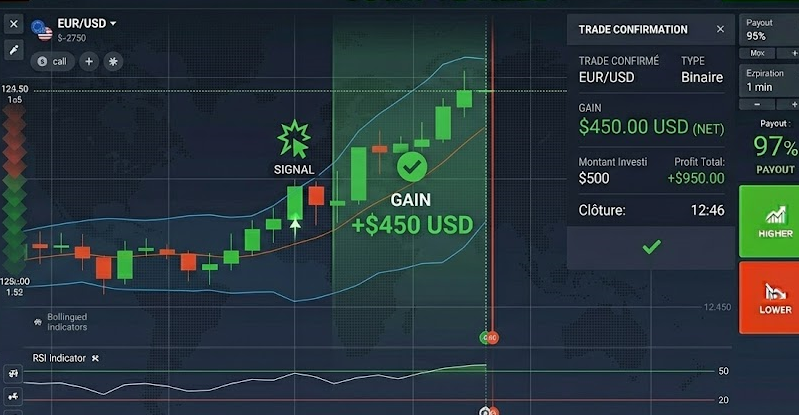
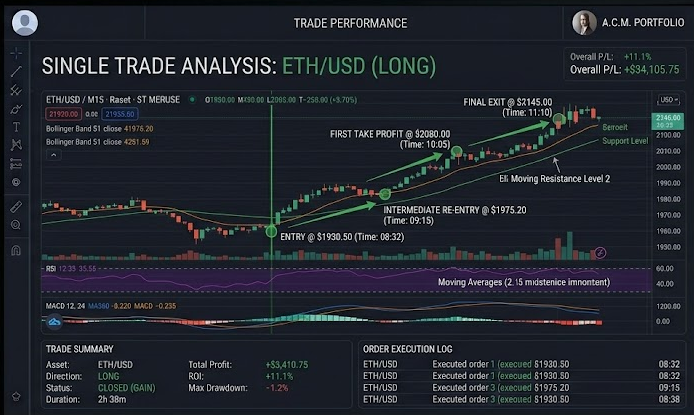
Add files via upload

diff --git a/index.html b/index.html
@@ -3,7 +3,7 @@
 <head>
     <meta charset="UTF-8">
     <meta name="viewport" content="width=device-width, initial-scale=1.0">
-    <title>AI PREMIUM BINARY OPTIONS SIGNALS</title>
+    <title>AI PREMIUM CRYPTO SIGNALS</title>
     <link rel="icon" type="image/png" href="logo.png">
     <link href="https://fonts.googleapis.com/css2?family=Inter:wght@400;600;700;800&display=swap" rel="stylesheet">
     <link rel="stylesheet" href="https://cdnjs.cloudflare.com/ajax/libs/font-awesome/6.4.0/css/all.min.css">
@@ -645,7 +645,7 @@
 <body>
 
     <header>
-        <div class="logo"><i class="fa-solid fa-chart-simple"></i> <p id="bot-name">AI PREMIUM BINARY OPTIONS SIGNALS</p></div>
+        <div class="logo"><i class="fa-solid fa-chart-simple"></i> <p id="bot-name">AI PREMIUM CRYPTO SIGNALS</p></div>
         <nav style="display: none;" class="nav-links">
             <a href="#">Platform</a>
             <a href="#">Features</a>
@@ -658,10 +658,10 @@
     </header>
 
     <main class="hero">
-        <h1>OPTIMIZE YOUR BINARY OPTIONS TRADING & MAKE MONEY.</h1>
+        <h1>OPTIMIZE YOUR CRYPTO TRADING & MAKE MONEY.</h1>
         <!-- <p>Gain unmatched market insights, trade efficiently, and manage risk with our comprehensive analytical platform. Invest like a professional.</p> -->
 
-        <p>The 'AI Premium Binary Options Signals' software allows you to optimize your binary options trading and secure your financial independence in a responsible and guaranteed way.</p>
+        <p>The 'AI Premium Crypto Signals' software allows you to optimize your crypto trading and secure your financial independence in a responsible and guaranteed way.</p>
 
         <div class="pricing-wrapper">
             <div class="security-badge left">
@@ -1002,7 +1002,7 @@
         <div class="footer-content">
             <div class="footer-logo">
                 <!-- <i class="fa-brands fa-lemon" style="color:#FACC15;"></i> Lemon Squeezy<br> -->
-                <span style="color:var(--text-dark); font-size: 0.8rem; font-weight: 400;">AI PREMIUM BINARY OPTIONS SIGNALS<br>Copyright © 2021 PRO ANALYST Analytics LLC. All rights reserved.</span>
+                <span style="color:var(--text-dark); font-size: 0.8rem; font-weight: 400;">AI PREMIUM CRYPTO SIGNALS<br>Copyright © 2021 PRO ANALYST Analytics LLC. All rights reserved.</span>
             </div>
             <div style="display: none;" class="footer-links">
                 <a href="#">Platform</a>

diff --git a/paiement.html b/paiement.html
@@ -399,7 +399,7 @@
     <header>
         <div class="logo-area">
             <div class="logo-icon"><i class="fa-solid fa-chart-simple"></i></div>
-            <span class="software-name"><p id="bot-name">AI PREMIUM BINARY OPTIONS SIGNALS</p></span>
+            <span class="software-name"><p id="bot-name">AI PREMIUM CRYPTO SIGNALS</p></span>
         </div>
     </header>
 
@@ -521,10 +521,9 @@
 
     <footer>
         <!-- <p>&copy; 2026 FX Trading Systems. All Rights Reserved. Secure Non-Custodial Gateway.</p> -->
-        <!-- <p>AI PREMIUM BINARY OPTIONS SIGNALS -- Copyright © 2021 PRO ANALYST Analytics LLC. All rights reserved.</p> -->
         <div class="footer-logo">
                 <!-- <i class="fa-brands fa-lemon" style="color:#FACC15;"></i> Lemon Squeezy<br> -->
-            <span style="color:var(--text-dark); font-size: 0.8rem; font-weight: 400;">AI PREMIUM BINARY OPTIONS SIGNALS<br>Copyright © 2021 PRO ANALYST Analytics LLC. All rights reserved.</span>
+            <span style="color:var(--text-dark); font-size: 0.8rem; font-weight: 400;">AI PREMIUM CRYPTO SIGNALS<br>Copyright © 2021 PRO ANALYST Analytics LLC. All rights reserved.</span>
         </div>
     </footer>
 

diff --git a/download.html b/download.html
@@ -400,7 +400,7 @@
 
     <header>
         <!-- <div class="logo"><i class="fa-solid fa-chart-simple"></i> FX PRO ANALYST</div> -->
-        <div class="logo"><i class="fa-solid fa-chart-simple"></i> <p id="bot-name">AI PREMIUM BINARY OPTIONS SIGNALS</p></div>
+        <div class="logo"><i class="fa-solid fa-chart-simple"></i> <p id="bot-name">AI PREMIUM CRYPTO SIGNALS</p></div>
     </header>
 
     <main class="container">
@@ -471,7 +471,7 @@
     </main>
 
     <footer>
-        <div class="footer-text">Legal disclaimer: Trading foreign exchange and binary options carries a high level of risk and may not be suitable for all investors. Past performance is not indicative of future results.</div>
+        <div class="footer-text">Legal disclaimer: Trading crypto (and foreign exchange) carries a high level of risk and may not be suitable for all investors. Past performance is not indicative of future results.</div>
         <a style="display: none;" href="mailto:support@fxproanalyst.com" class="footer-support"><i class="fa-regular fa-envelope"></i> Contact Technical Support</a>
     </footer>
 

diff --git a/guide-paiement.html b/guide-paiement.html
@@ -240,7 +240,7 @@
 <body>
 
     <header>
-        <div class="logo"><i class="fa-solid fa-chart-simple"></i> <p id="bot-name">AI PREMIUM BINARY OPTIONS SIGNALS</p></div>
+        <div class="logo"><i class="fa-solid fa-chart-simple"></i> <p id="bot-name">AI PREMIUM CRYPTO SIGNALS</p></div>
         <nav style="display: none;" class="nav-links">
             <a href="#">Platform</a>
             <a href="#">Features</a>
